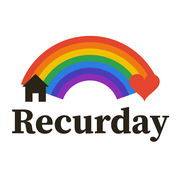
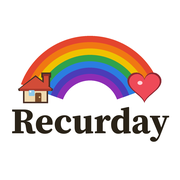
Give the rainbow's house a friendlier, emoji-like look
The house is our own drawing, not copied from anyone's emoji artwork.

Changed region(s): [[0.0833, 0.3889, 0.3056, 0.5833], [0.6944, 0.3889, 0.9167, 0.5833]]

diff --git a/public/offline.html b/public/offline.html
@@ -23,7 +23,7 @@
 <body>
   <div class="wrap home" id="content">
     <header class="top">
-      <a class="brand" href="/"><img class="logo-mark" src="/icons/mark.svg" width="68" height="35" alt="">Recurday</a>
+      <a class="brand" href="/"><img class="logo-mark" src="/icons/mark.svg" width="68" height="36" alt="">Recurday</a>
     </header>
     <h1>You're offline.</h1>
     <p class="lead">Recurday can still open, but your family's photos and traditions stay on our servers — they aren't stored on this phone. Try again when you're back online.</p>

diff --git a/public/index.html b/public/index.html
@@ -39,7 +39,7 @@
   <a class="skip-link" href="#content">Skip to content</a>
   <div class="wrap home brand-hero" id="content">
     <header class="top">
-      <a class="brand" href="/"><img class="logo-mark" src="/icons/mark.svg" width="68" height="35" alt="">Recurday</a>
+      <a class="brand" href="/"><img class="logo-mark" src="/icons/mark.svg" width="68" height="36" alt="">Recurday</a>
     </header>
     <h1>Creating family traditions.</h1>
     <p class="lead">It was always about the small things.</p>

diff --git a/src/http.js b/src/http.js
@@ -87,7 +87,7 @@ export function pageShell({ title, description, ogTitle, ogDescription, origin, 
   <a class="skip-link" href="#content">Skip to content</a>
   <div class="${wrapClass}" id="content">
     <header class="top">
-      <a class="brand" href="/"><img class="logo-mark" src="/icons/mark.svg" width="68" height="35" alt="">Recurday</a>
+      <a class="brand" href="/"><img class="logo-mark" src="/icons/mark.svg" width="68" height="36" alt="">Recurday</a>
       ${nav}
     </header>
     ${body}

diff --git a/public/about.html b/public/about.html
@@ -39,7 +39,7 @@
   <a class="skip-link" href="#content">Skip to content</a>
   <div class="wrap" id="content">
     <header class="top">
-      <a class="brand" href="/"><img class="logo-mark" src="/icons/mark.svg" width="68" height="35" alt="">Recurday</a>
+      <a class="brand" href="/"><img class="logo-mark" src="/icons/mark.svg" width="68" height="36" alt="">Recurday</a>
       
     </header>
     

diff --git a/public/ideas.html b/public/ideas.html
@@ -39,7 +39,7 @@
   <a class="skip-link" href="#content">Skip to content</a>
   <div class="wrap" id="content">
     <header class="top">
-      <a class="brand" href="/"><img class="logo-mark" src="/icons/mark.svg" width="68" height="35" alt="">Recurday</a>
+      <a class="brand" href="/"><img class="logo-mark" src="/icons/mark.svg" width="68" height="36" alt="">Recurday</a>
       
     </header>
     

diff --git a/public/privacy.html b/public/privacy.html
@@ -39,7 +39,7 @@
   <a class="skip-link" href="#content">Skip to content</a>
   <div class="wrap" id="content">
     <header class="top">
-      <a class="brand" href="/"><img class="logo-mark" src="/icons/mark.svg" width="68" height="35" alt="">Recurday</a>
+      <a class="brand" href="/"><img class="logo-mark" src="/icons/mark.svg" width="68" height="36" alt="">Recurday</a>
       
     </header>
     

diff --git a/public/terms.html b/public/terms.html
@@ -39,7 +39,7 @@
   <a class="skip-link" href="#content">Skip to content</a>
   <div class="wrap" id="content">
     <header class="top">
-      <a class="brand" href="/"><img class="logo-mark" src="/icons/mark.svg" width="68" height="35" alt="">Recurday</a>
+      <a class="brand" href="/"><img class="logo-mark" src="/icons/mark.svg" width="68" height="36" alt="">Recurday</a>
       
     </header>
     

diff --git a/public/sw.js b/public/sw.js
@@ -1,5 +1,5 @@
 /* Recurday app shell only. Never cache family photos or tradition pages. */
-const CACHE = "recurday-shell-v13";
+const CACHE = "recurday-shell-v14";
 // Every file here is a static asset, so installing the worker never counts
 // toward the Worker's daily request limit. "/" is cached when visited.
 const SHELL = [

diff --git a/scripts/generate-brand.py b/scripts/generate-brand.py
@@ -33,7 +33,20 @@ RAINBOW = [
 PAPER = "#ffffff"
 INK = "#2a2318"
 MUTED = "#5a5146"
-HEART = "#e4452e"  # same red as the outer rainbow band
+
+# Original emoji-like house and heart palette. Drawn as our own vectors;
+# not copied from Apple, Google, Twemoji, or any other vendor artwork.
+HOUSE_WALL = "#f0d9b0"
+HOUSE_ROOF = "#d24c38"
+HOUSE_ROOF_SHADE = "#a83a2c"
+HOUSE_CHIMNEY_CAP = "#8f3228"
+HOUSE_DOOR = "#7a4a28"
+HOUSE_KNOB = "#e8c98a"
+HOUSE_WINDOW = "#8ec8ea"
+HOUSE_OUTLINE = "#4a3026"
+HEART = "#ee4a58"
+HEART_OUTLINE = "#8c2832"
+HEART_SHINE = "#ffd4d8"
 
 SERIF = Path("/usr/share/fonts/truetype/sand-box/custom/Source Serif Pro/SourceSerifPro-Bold.ttf")
 SANS = Path("/usr/share/fonts/truetype/sand-box/google/Source Sans 3/SourceSans3-VariableFont_wght.ttf")
@@ -137,33 +150,146 @@ def heart_points(cx: float, cy: float, size: float, steps: int = 96) -> list[tup
     return [(cx + (x - ox) * scale, cy + (y - oy) * scale) for x, y in raw]
 
 
-def draw_heart(draw: ImageDraw.ImageDraw, cx: float, cy: float, size: float, fill) -> None:
-    draw.polygon(heart_points(cx, cy, size), fill=fill)
+def _expand_rect(rect: tuple[float, float, float, float], o: float) -> list[float]:
+    x0, y0, x1, y1 = rect
+    return [x0 - o, y0 - o, x1 + o, y1 + o]
 
 
-def draw_house(draw: ImageDraw.ImageDraw, cx: float, baseline_y: float, size: float, fill, door_fill) -> None:
-    """A simple house standing on baseline_y, centered at cx, with total height size."""
-    body_h = size * 0.58
-    body_w = size * 0.74
-    roof_w = size * 0.96
+def _expand_poly(pts: list[tuple[float, float]], o: float) -> list[tuple[float, float]]:
+    """Grow a polygon slightly from its centroid, for a soft outline under the fill."""
+    n = len(pts)
+    mx = sum(p[0] for p in pts) / n
+    my = sum(p[1] for p in pts) / n
+    out: list[tuple[float, float]] = []
+    for x, y in pts:
+        dx, dy = x - mx, y - my
+        length = math.hypot(dx, dy) or 1
+        out.append((x + o * dx / length, y + o * dy / length))
+    return out
+
+
+def house_geom(cx: float, baseline_y: float, size: float) -> dict:
+    """Original house geometry: cream walls, terracotta roof, chimney, door, window.
+
+    size is the height from the chimney top down to the ground.
+    """
+    body_w = size * 0.80
+    body_h = size * 0.52
+    body_left = cx - body_w / 2
+    body_right = cx + body_w / 2
     body_top = baseline_y - body_h
-    draw.rectangle([cx - body_w / 2, body_top, cx + body_w / 2, baseline_y], fill=fill)
-    peak = (cx, baseline_y - size)
-    left_eave = (cx - roof_w / 2, body_top + size * 0.04)
-    right_eave = (cx + roof_w / 2, body_top + size * 0.04)
-    draw.polygon([peak, left_eave, right_eave], fill=fill)
-    door_w = max(size * 0.22, 1)
-    door_h = body_h * 0.52
-    if door_w >= 1.5 and door_h >= 2:
-        draw.rectangle([cx - door_w / 2, baseline_y - door_h, cx + door_w / 2, baseline_y], fill=door_fill)
+
+    roof_w = size * 1.16
+    eave_y = body_top + size * 0.055
+    peak = (cx, baseline_y - size * 0.90)
+    left_eave = (cx - roof_w / 2, eave_y)
+    right_eave = (cx + roof_w / 2, eave_y)
+    fascia_h = size * 0.075
+    fascia = [
+        left_eave,
+        right_eave,
+        (right_eave[0] - size * 0.025, eave_y + fascia_h),
+        (left_eave[0] + size * 0.025, eave_y + fascia_h),
+    ]
+    roof = [peak, left_eave, right_eave]
+
+    # Chimney on the right roof slope, drawn first so the roof covers its base.
+    ch_w = size * 0.17
+    t = 0.62
+    roof_x = peak[0] + (right_eave[0] - peak[0]) * t
+    roof_y = peak[1] + (right_eave[1] - peak[1]) * t
+    ch_left = roof_x - ch_w * 0.35
+    ch_right = ch_left + ch_w
+    ch_top = baseline_y - size
+    ch_bottom = roof_y + size * 0.06
+    cap_h = size * 0.07
+    cap_over = size * 0.035
+    cap = (ch_left - cap_over, ch_top, ch_right + cap_over, ch_top + cap_h)
+
+    door_w = body_w * 0.28
+    door_h = body_h * 0.62
+    door_cx = cx + body_w * 0.12
+    door = (door_cx - door_w / 2, baseline_y - door_h, door_cx + door_w / 2, baseline_y)
+    knob_r = size * 0.028
+    knob = (door_cx + door_w * 0.22, baseline_y - door_h * 0.50, knob_r)
+
+    win = body_w * 0.26
+    win_cx = cx - body_w * 0.18
+    win_cy = body_top + body_h * 0.40
+    window = (win_cx - win / 2, win_cy - win / 2, win_cx + win / 2, win_cy + win / 2)
+
+    outline_w = max(size * 0.055, 1.0)
+    return {
+        "body": (body_left, body_top, body_right, baseline_y),
+        "roof": roof,
+        "fascia": fascia,
+        "chimney": (ch_left, ch_top, ch_right, ch_bottom),
+        "cap": cap,
+        "door": door,
+        "door_radius": size * 0.045,
+        "knob": knob,
+        "window": window,
+        "win_radius": size * 0.03,
+        "outline_w": outline_w,
+        "min_x": min(left_eave[0], cap[0]) - outline_w / 2,
+        "max_x": max(right_eave[0], cap[2]) + outline_w / 2,
+        "min_y": min(ch_top, cap[1]) - outline_w / 2,
+        "max_y": baseline_y + outline_w / 2,
+    }
+
+
+def draw_heart(draw: ImageDraw.ImageDraw, cx: float, cy: float, size: float) -> None:
+    """Friendly heart with a soft outline and a small shine, to match the house."""
+    outline_w = max(size * 0.055, 1.0)
+    draw.polygon(heart_points(cx, cy, size + outline_w * 2), fill=hex_rgb(HEART_OUTLINE) + (255,))
+    draw.polygon(heart_points(cx, cy, size), fill=hex_rgb(HEART) + (255,))
+    hw, hh = size * 0.18, size * 0.14
+    if hw >= 2:
+        hx, hy = cx - size * 0.16, cy - size * 0.18
+        draw.ellipse([hx - hw / 2, hy - hh / 2, hx + hw / 2, hy + hh / 2], fill=hex_rgb(HEART_SHINE) + (255,))
+
+
+def draw_house(draw: ImageDraw.ImageDraw, cx: float, baseline_y: float, size: float) -> None:
+    """A simple full-color house, standing on baseline_y, centered at cx."""
+    g = house_geom(cx, baseline_y, size)
+    o = g["outline_w"]
+    outline = hex_rgb(HOUSE_OUTLINE) + (255,)
+    # Soft outline: paint slightly larger copies of the outer shapes first.
+    draw.rectangle(_expand_rect(g["chimney"], o), fill=outline)
+    draw.rectangle(_expand_rect(g["cap"], o), fill=outline)
+    draw.rectangle(_expand_rect(g["body"], o), fill=outline)
+    draw.polygon(_expand_poly(g["roof"], o), fill=outline)
+    draw.polygon(_expand_poly(g["fascia"], o), fill=outline)
+    # Color fills, back to front.
+    draw.rectangle(list(g["chimney"]), fill=hex_rgb(HOUSE_ROOF) + (255,))
+    draw.rectangle(list(g["cap"]), fill=hex_rgb(HOUSE_CHIMNEY_CAP) + (255,))
+    draw.rectangle(list(g["body"]), fill=hex_rgb(HOUSE_WALL) + (255,))
+    draw.polygon(g["roof"], fill=hex_rgb(HOUSE_ROOF) + (255,))
+    draw.polygon(g["fascia"], fill=hex_rgb(HOUSE_ROOF_SHADE) + (255,))
+    x0, y0, x1, y1 = g["door"]
+    r = g["door_radius"]
+    draw.rounded_rectangle([x0, y0, x1, y1], radius=r, fill=hex_rgb(HOUSE_DOOR) + (255,))
+    # Keep the door square at the ground (only the top is rounded).
+    draw.rectangle([x0, y0 + r, x1, y1], fill=hex_rgb(HOUSE_DOOR) + (255,))
+    kx, ky, kr = g["knob"]
+    if kr >= 0.8:
+        draw.ellipse([kx - kr, ky - kr, kx + kr, ky + kr], fill=hex_rgb(HOUSE_KNOB) + (255,))
+    wx0, wy0, wx1, wy1 = g["window"]
+    draw.rounded_rectangle([wx0, wy0, wx1, wy1], radius=g["win_radius"], fill=hex_rgb(HOUSE_WINDOW) + (255,))
+    # A small glass shine, not a pane cross (a cross reads like a medical mark at this size).
+    shine = (wx1 - wx0) * 0.32
+    if shine >= 1.6:
+        sx0 = wx0 + (wx1 - wx0) * 0.14
+        sy0 = wy0 + (wy1 - wy0) * 0.14
+        draw.ellipse([sx0, sy0, sx0 + shine, sy0 + shine * 0.78], fill=(255, 255, 255, 200))
 
 
 def paint_emblems(img: Image.Image, place: dict) -> None:
     overlay = Image.new("RGBA", img.size, (0, 0, 0, 0))
     draw = ImageDraw.Draw(overlay)
     size = place["size"]
-    draw_house(draw, place["house_cx"], place["ground"], size, hex_rgb(INK) + (255,), hex_rgb(PAPER) + (255,))
-    draw_heart(draw, place["heart_cx"], place["heart_cy"], size, hex_rgb(HEART) + (255,))
+    draw_house(draw, place["house_cx"], place["ground"], size)
+    draw_heart(draw, place["heart_cx"], place["heart_cy"], size)
     if img.mode == "RGBA":
         img.alpha_composite(overlay)
     else:
@@ -172,33 +298,73 @@ def paint_emblems(img: Image.Image, place: dict) -> None:
         img.paste(base.convert(img.mode))
 
 
+def _svg_rect(rect: tuple[float, float, float, float], fill: str, rx: float = 0) -> str:
+    x0, y0, x1, y1 = rect
+    rx_attr = f' rx="{rx:.3f}" ry="{rx:.3f}"' if rx else ""
+    return f'<rect x="{x0:.3f}" y="{y0:.3f}" width="{x1 - x0:.3f}" height="{y1 - y0:.3f}" fill="{fill}"{rx_attr}/>'
+
+
+def _svg_poly(pts: list[tuple[float, float]], fill: str) -> str:
+    d = "M " + " L ".join(f"{x:.3f} {y:.3f}" for x, y in pts) + " Z"
+    return f'<path d="{d}" fill="{fill}"/>'
+
+
 def house_svg_paths(cx: float, baseline_y: float, size: float) -> list[str]:
-    body_h = size * 0.58
-    body_w = size * 0.74
-    roof_w = size * 0.96
-    body_top = baseline_y - body_h
-    door_w = size * 0.22
-    door_h = body_h * 0.52
-    left = cx - body_w / 2
-    paths = [
-        f'<rect x="{left:.3f}" y="{body_top:.3f}" width="{body_w:.3f}" height="{body_h:.3f}" fill="{INK}"/>',
+    g = house_geom(cx, baseline_y, size)
+    o = g["outline_w"]
+    x0, y0, x1, y1 = g["door"]
+    r = g["door_radius"]
+    # Door path: rounded only at the top.
+    door_path = (
+        f'<path d="M {x0:.3f} {y1:.3f} L {x0:.3f} {y0 + r:.3f} '
+        f'A {r:.3f} {r:.3f} 0 0 1 {x0 + r:.3f} {y0:.3f} '
+        f'L {x1 - r:.3f} {y0:.3f} '
+        f'A {r:.3f} {r:.3f} 0 0 1 {x1:.3f} {y0 + r:.3f} '
+        f'L {x1:.3f} {y1:.3f} Z" fill="{HOUSE_DOOR}"/>'
+    )
+    kx, ky, kr = g["knob"]
+    wx0, wy0, wx1, wy1 = g["window"]
+    shine = (wx1 - wx0) * 0.32
+    sx0 = wx0 + (wx1 - wx0) * 0.14
+    sy0 = wy0 + (wy1 - wy0) * 0.14
+    parts = [
+        # Soft outline, same expanded shapes as the PNG.
+        _svg_rect(_expand_rect(g["chimney"], o), HOUSE_OUTLINE),
+        _svg_rect(_expand_rect(g["cap"], o), HOUSE_OUTLINE),
+        _svg_rect(_expand_rect(g["body"], o), HOUSE_OUTLINE),
+        _svg_poly(_expand_poly(g["roof"], o), HOUSE_OUTLINE),
+        _svg_poly(_expand_poly(g["fascia"], o), HOUSE_OUTLINE),
+        _svg_rect(g["chimney"], HOUSE_ROOF),
+        _svg_rect(g["cap"], HOUSE_CHIMNEY_CAP),
+        _svg_rect(g["body"], HOUSE_WALL),
+        _svg_poly(g["roof"], HOUSE_ROOF),
+        _svg_poly(g["fascia"], HOUSE_ROOF_SHADE),
+        door_path,
+        f'<circle cx="{kx:.3f}" cy="{ky:.3f}" r="{kr:.3f}" fill="{HOUSE_KNOB}"/>',
+        _svg_rect(g["window"], HOUSE_WINDOW, rx=g["win_radius"]),
         (
-            f'<path d="M {cx:.3f} {baseline_y - size:.3f} '
-            f'L {cx - roof_w / 2:.3f} {body_top + size * 0.04:.3f} '
-            f'L {cx + roof_w / 2:.3f} {body_top + size * 0.04:.3f} Z" fill="{INK}"/>'
-        ),
-        (
-            f'<rect x="{cx - door_w / 2:.3f}" y="{baseline_y - door_h:.3f}" '
-            f'width="{door_w:.3f}" height="{door_h:.3f}" fill="{PAPER}"/>'
+            f'<ellipse cx="{sx0 + shine / 2:.3f}" cy="{sy0 + shine * 0.39:.3f}" '
+            f'rx="{shine / 2:.3f}" ry="{shine * 0.39:.3f}" fill="#ffffff" fill-opacity="0.78"/>'
         ),
     ]
-    return paths
+    return parts
 
 
-def heart_svg_path(cx: float, cy: float, size: float) -> str:
-    pts = heart_points(cx, cy, size, steps=48)
-    d = "M " + " L ".join(f"{x:.3f} {y:.3f}" for x, y in pts) + " Z"
-    return f'<path d="{d}" fill="{HEART}"/>'
+def heart_svg_paths(cx: float, cy: float, size: float) -> list[str]:
+    outline_w = max(size * 0.055, 0.4)
+    def path(pts: list[tuple[float, float]], fill: str) -> str:
+        d = "M " + " L ".join(f"{x:.3f} {y:.3f}" for x, y in pts) + " Z"
+        return f'<path d="{d}" fill="{fill}"/>'
+    hw, hh = size * 0.18, size * 0.14
+    hx, hy = cx - size * 0.16, cy - size * 0.18
+    return [
+        path(heart_points(cx, cy, size + outline_w * 2, steps=48), HEART_OUTLINE),
+        path(heart_points(cx, cy, size, steps=48), HEART),
+        (
+            f'<ellipse cx="{hx:.3f}" cy="{hy:.3f}" rx="{hw / 2:.3f}" ry="{hh / 2:.3f}" '
+            f'fill="{HEART_SHINE}"/>'
+        ),
+    ]
 
 
 def fit_title_font(text: str, max_width: int, max_size: int) -> ImageFont.FreeTypeFont:
@@ -316,11 +482,12 @@ def make_mark_svg(path: Path) -> tuple[int, int]:
             f'stroke="{color}" stroke-width="{w:.3f}" stroke-linecap="butt"/>'
         )
 
-    # House and heart bounds.
-    roof_w = e_size * 0.96
-    include(place["house_cx"] - roof_w / 2, place["ground"] - e_size)
-    include(place["house_cx"] + roof_w / 2, place["ground"])
-    for x, y in heart_points(place["heart_cx"], place["heart_cy"], e_size, steps=48):
+    # House and heart bounds, including the chimney, eaves, and soft outlines.
+    hg = house_geom(place["house_cx"], place["ground"], e_size)
+    include(hg["min_x"], hg["min_y"])
+    include(hg["max_x"], hg["max_y"])
+    heart_outline = max(e_size * 0.055, 0.4)
+    for x, y in heart_points(place["heart_cx"], place["heart_cy"], e_size + heart_outline * 2, steps=48):
         include(x, y)
 
     pad = 2.0
@@ -338,7 +505,8 @@ def make_mark_svg(path: Path) -> tuple[int, int]:
     ]
     for line in house_svg_paths(place["house_cx"], place["ground"], e_size):
         parts.append("  " + line)
-    parts.append("  " + heart_svg_path(place["heart_cx"], place["heart_cy"], e_size))
+    for line in heart_svg_paths(place["heart_cx"], place["heart_cy"], e_size):
+        parts.append("  " + line)
     parts.append("</svg>")
     path.parent.mkdir(parents=True, exist_ok=True)
     path.write_text("\n".join(parts) + "\n")
